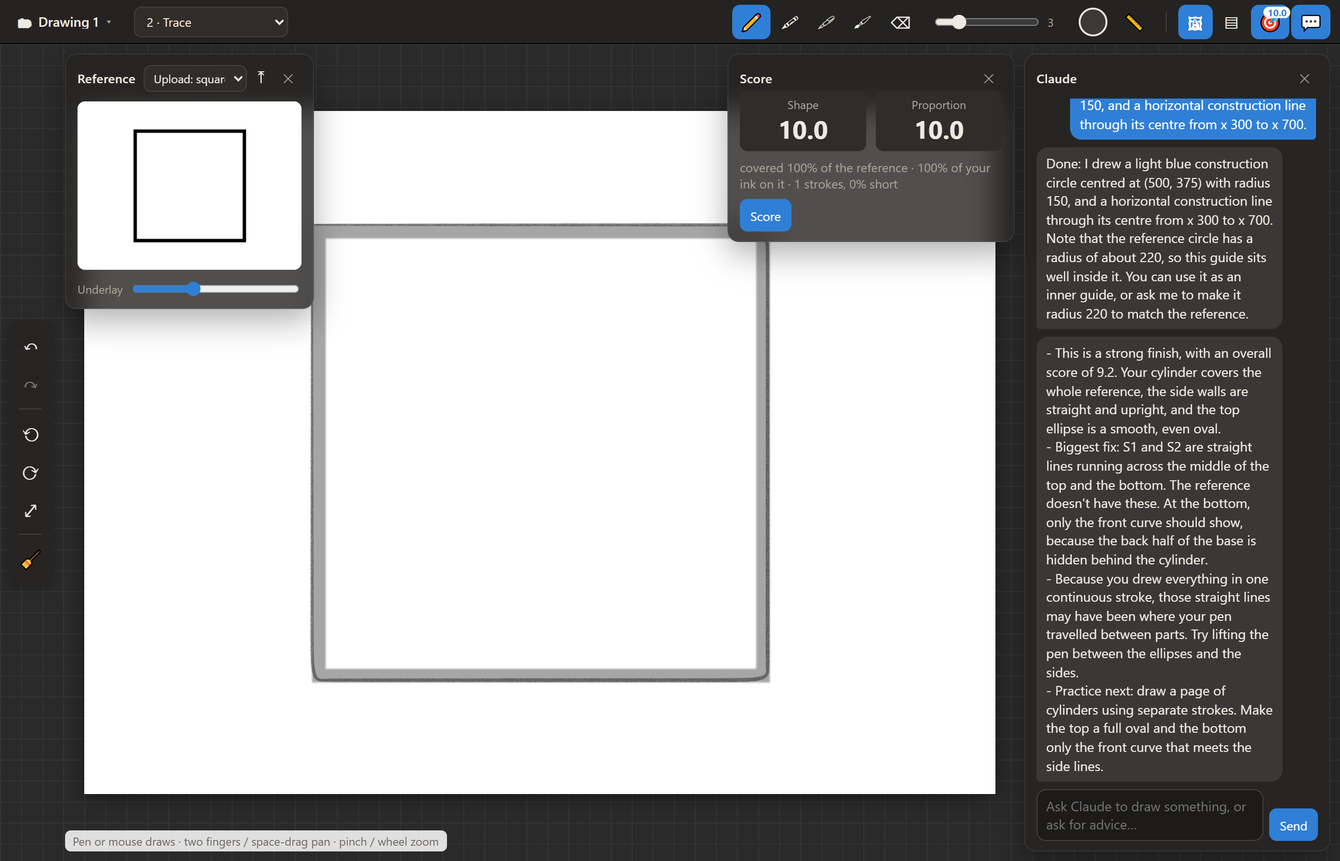
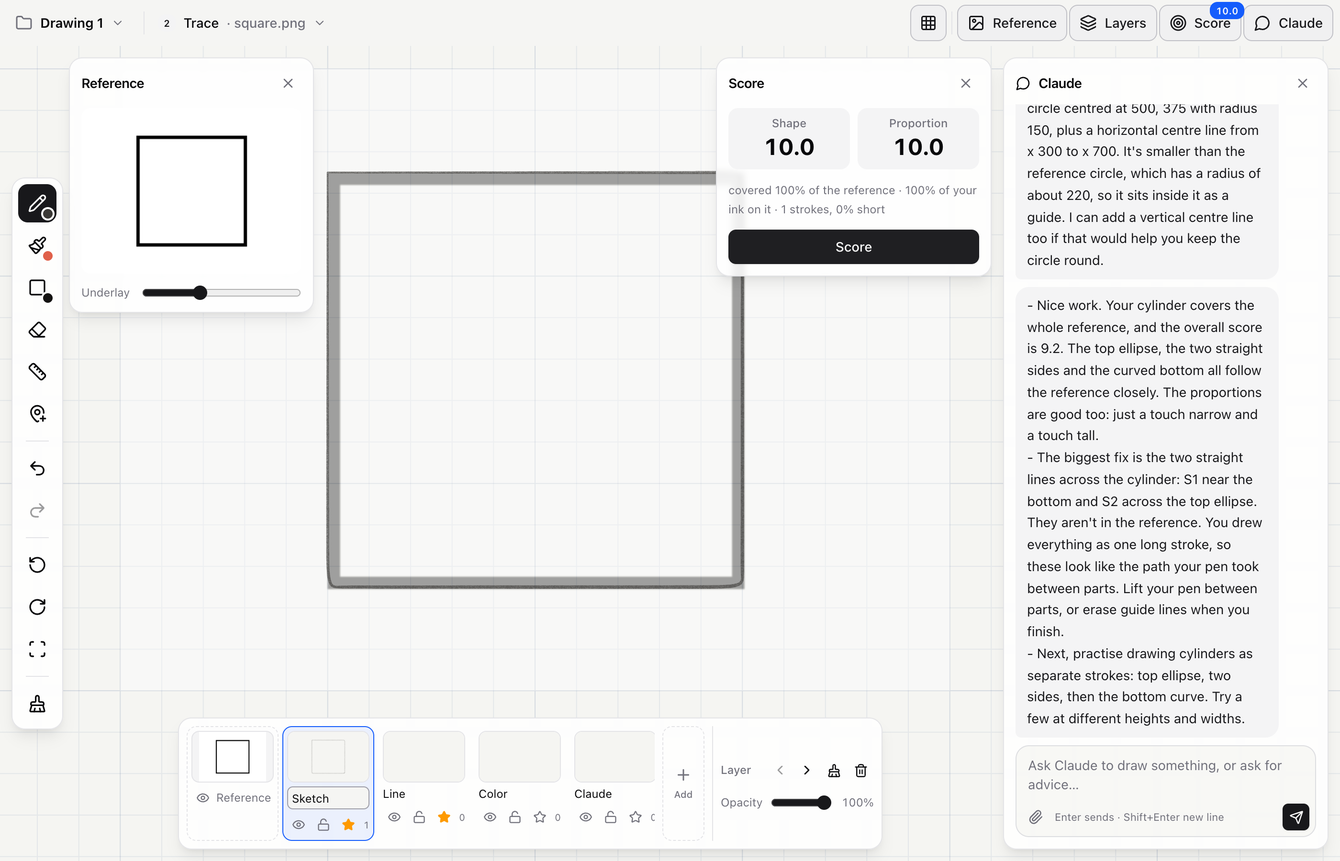
Rewrite the README with new screenshots
- New light-UI screenshots for every picture in the README, plus new ones:
  Claude's labelled perspective box, the clean box with Sketch hidden,
  notes and pictures in the chat, and the Shapes flyout.
- The README now starts with what the app is and a quick start, then has a
  screenshot tour and a "Claude, your drawing teacher" table (drawing,
  explanations on the drawing, perspective layers, notes, pictures).
- Tables for the tools and the keyboard. Sections for practice mode and
  scoring, how it works (routes), security, and development with the
  throwaway-server e2e commands.

diff --git a/README.md b/README.md
@@ -1,204 +1,222 @@
 # ✏ drawing-room
 
-**A local practice room for learning to draw by hand.** Draw with real pen pressure and tilt (Apple Pencil on an iPad,
-or a Wacom / XP-Pen / Huion tablet on a computer) next to a reference. A deterministic scorer compares your lines to it,
-and Claude coaches you, or draws construction lines for you like a CAD helper.
+**A local sketchbook with a drawing teacher in it.** Draw by hand with real pen pressure and tilt (Apple Pencil on an
+iPad, or a Wacom / XP-Pen / Huion tablet), and ask Claude to explain, correct or construct things for you, right on
+the paper: a two-point perspective box built step by step, with every step numbered and labelled where it happens.
 
-![Claude draws construction lines from the chat while you draw by hand](docs/screenshots/15-claude-draws.png)
+![Claude draws a two-point perspective box on its own layers and labels each step on the drawing](docs/screenshots/20-claude-perspective.png)
 
-<table>
-  <tr>
-    <td width="50%"><img src="docs/screenshots/02-level1-cube-next-step.png" alt="Guided tracing of a cube"><br><sub><b>Trace, guided</b>: a step list for each reference, and the next step is named after every stroke.</sub></td>
-    <td width="50%"><img src="docs/screenshots/05-level3-squashed.png" alt="Missed and stray regions boxed after scoring"><br><sub><b>Scored, not guessed</b>: shape and proportion out of 10, with missed (M) and stray (S) regions boxed.</sub></td>
-  </tr>
-  <tr>
-    <td><img src="docs/screenshots/07-level4-submit-review.png" alt="Claude reviews a submitted cylinder"><br><sub><b>Review on submit</b>: Claude reads the numbers and the overlay, then tells you what to practise next.</sub></td>
-    <td><img src="docs/screenshots/11-pencil.png" alt="Pencil pressure, tilted shading and colour"><br><sub><b>A real pencil</b>: pressure for line weight, tilt the pen for grainy shading, any colour.</sub></td>
-  </tr>
-  <tr>
-    <td><img src="docs/screenshots/09-layers.png" alt="Layers panel"><br><sub><b>Layers</b>: hide, lock, opacity, reorder, and ★ the ones that count towards the score.</sub></td>
-    <td><img src="docs/screenshots/10-ruler.png" alt="Ruler on the paper"><br><sub><b>Ruler</b>: strokes snap to its edge; turn it in 15° steps or type an angle.</sub></td>
-  </tr>
-  <tr>
-    <td><img src="docs/screenshots/06-zoom-rotate.png" alt="Zoomed and rotated paper"><br><sub><b>Turn the paper</b>: pan, pinch-zoom and twist like a real sheet.</sub></td>
-    <td><img src="docs/screenshots/13-projects.png" alt="Projects menu"><br><sub><b>Projects</b>: every drawing saves itself on the computer and opens on the iPad too.</sub></td>
-  </tr>
-</table>
+- 🖊 **A real pen**: pressure and tilt straight from the browser, so the iPad only needs Safari. A pencil with grain, ink, marker, brush,
+  shading, highlighter and dragged-out shapes.
+- 🧑🏫 **A teacher, not a filter**: Claude draws on its own layers, writes its explanation onto the drawing, answers
+  notes you pin on a spot, and looks at pictures you drop in the chat.
+- 🗂 **Your work stays on your machine**: projects save themselves on the computer, and the iPad opens the same ones over
+  Wi-Fi.
+- 🎯 **Practice mode with a deterministic score** (`?practice`): trace or draw from a reference, scored on shape and
+  proportion, with a review at the end.
 
-## Highlights
+---
 
-- 🖊 **Pressure and tilt** from the browser's Pointer Events: no app to install on the iPad, just Safari.
-- 📐 **Five levels**, from warm-up drills to drawing from a reference with a review at the end.
-- 🎯 **A deterministic score**: distance transforms on the lines themselves, so the same drawing always gets the same number.
-- 🤖 **Claude as a coach and a CAD helper**: ask "draw a box in two-point perspective" and it draws guides on its own layer.
-- 🔒 **Local first**: the server runs on your own machine and binds to 127.0.0.1 unless you ask for the LAN.
+## Quick start
 
-## Run it
-
-Needs Python 3.11/3.12 and [uv](https://docs.astral.sh/uv/). The coach uses the local
-[Claude Code](https://claude.com/claude-code) command line (`claude`, signed in), or the Messages API if
-`ANTHROPIC_API_KEY` is set and you install the extra (`uv sync --extra api`).
+You need Python 3.11 or 3.12 and [uv](https://docs.astral.sh/uv/). For Claude you need either the
+[Claude Code](https://claude.com/claude-code) command line (`claude`, signed in), or `ANTHROPIC_API_KEY` with
+`uv sync --extra api`.
 
 ```bash
 uv sync
-uv run drawing-room serve            # http://127.0.0.1:8430 on this Mac only
-uv run drawing-room serve --lan      # also on your Wi-Fi, for the iPad; prints the address
-uv run drawing-room serve --lan --pin   # on a shared network: also asks for a 6-digit PIN printed at start-up
+uv run drawing-room serve                 # http://127.0.0.1:8430, this computer only
+uv run drawing-room serve --lan           # also on your Wi-Fi for the iPad; prints the address to open
+uv run drawing-room serve --lan --pin     # on a shared network: also asks for a 6-digit PIN
 uv run drawing-room serve --port 9000 --data ~/drawings   # projects live in ~/.drawing-room/projects by default
 ```
 
-On the iPad, open the printed `http://<mac-ip>:8430` address in Safari.
-All JavaScript is served by the Mac, so the iPad needs no internet; the coach needs the Mac to reach Claude.
+On the iPad, open the printed `http://<computer-ip>:8430` in Safari. Everything is served by the computer, so the iPad
+needs no internet. Claude needs the computer to reach it.
+
+---
+
+## A tour
+
+<table>
+  <tr>
+    <td width="50%"><img src="docs/screenshots/21-clean-box.png" alt="The same box with Claude's Sketch layer hidden"><br><sub><b>Construction you can switch off.</b> Claude draws in four line weights on separate layers. Hide its Sketch layer and a clean box is left.</sub></td>
+    <td width="50%"><img src="docs/screenshots/22-notes-and-pictures.png" alt="Numbered notes pinned on the drawing and a picture attached in the chat"><br><sub><b>Ask about a spot.</b> Pin numbered notes on the paper (N) and attach pictures. They go with your next message, and Claude answers each note by number.</sub></td>
+  </tr>
+  <tr>
+    <td><img src="docs/screenshots/23-toolbox-shapes.png" alt="The Shapes flyout with dashed lines"><br><sub><b>Toolbox.</b> Write, Paint and Shapes each open a flyout with their tools, colours and size. Shapes come solid or dashed.</sub></td>
+    <td><img src="docs/screenshots/11-pencil.png" alt="Pencil pressure, tilted shading and colour"><br><sub><b>A pencil that behaves like one.</b> Press harder for a darker line, and tilt the pen for grainy shading.</sub></td>
+  </tr>
+  <tr>
+    <td><img src="docs/screenshots/09-layers.png" alt="The layers strip"><br><sub><b>Layers.</b> A strip of cards that show what is on each layer. Hide, lock, set opacity, reorder, and ★ the ones that count in practice.</sub></td>
+    <td><img src="docs/screenshots/10-ruler.png" alt="The ruler on the paper"><br><sub><b>Ruler.</b> Run a stroke along it to draw straight. Turn it in 15° steps or type an exact angle.</sub></td>
+  </tr>
+  <tr>
+    <td><img src="docs/screenshots/02-level1-cube-next-step.png" alt="Guided tracing of a cube"><br><sub><b>Practice: trace, guided.</b> A step list for each reference, with the next step named after every stroke.</sub></td>
+    <td><img src="docs/screenshots/05-level3-squashed.png" alt="Missed and stray regions boxed after scoring"><br><sub><b>Scored, not guessed.</b> Shape and proportion out of 10, with missed (M) and stray (S) regions boxed.</sub></td>
+  </tr>
+  <tr>
+    <td><img src="docs/screenshots/07-level4-submit-review.png" alt="Claude reviews a submitted drawing"><br><sub><b>Review on submit.</b> Claude reads the numbers and the overlay, then says what to practise next.</sub></td>
+    <td><img src="docs/screenshots/13-projects.png" alt="The projects menu"><br><sub><b>Projects.</b> Every drawing saves itself on the computer and opens on the iPad too.</sub></td>
+  </tr>
+</table>
+
+---
+
+## Claude, your drawing teacher 🧑🏫
+
+Open the chat with the **Claude** button (top right). Write in any language; Claude answers in yours.
+
+| Ask for… | What happens |
+| --- | --- |
+| **Something drawn**: "draw a box in two-point perspective", "add a centre line", "sketch the cap" | Claude draws it as lines, circles, ellipses, arcs, curves, filled faces and text, on layers of its own that are never scored. One undo takes back everything it drew for that message, and "redo it" replaces it. |
+| **An explanation** | Claude writes it **on the drawing**. Short labels sit beside the points that matter, and numbered steps follow the drawing order ("1 Draw the horizon"), on its **Notes** layer. The chat reply then refers to the step numbers. |
+| **A perspective illustration** | One box per picture, in four line weights. **Sketch**: the faint dashed construction (orange to the side vanishing points, blue to the third) and the green lines that find the hidden corner. **Color**: the faces at 60% (left purple, right coral, top or bottom green). **Line**: the bold visible edges, nearer ones thicker. A layer is called "Claude Sketch" when you already have a "Sketch". |
+| **About one spot** | Press **N** (or the pin in the toolbox), tap the spot and write the question. A numbered orange pin marks it, and the note waits above the message box (× removes it). Claude gets each note with its position, sees the pins, and answers by number. |
+| **About a picture** | Attach up to 4 pictures a message: use the paperclip, paste a screenshot, or drop a file anywhere on the page. They are scaled to 1600 px and sent with that message only, and a thumbnail stays in the chat. |
+
+The chat is saved with the project. Claude sees the sheet (plus anything drawn past it) with a coordinate grid. Your
+strokes appear in black and its own in blue, so it never mistakes its work for yours.
+
+---
+
+## Drawing
+
+**Paper.** Soft off-white paper fills the screen with no border, so you can draw anywhere. A squared grid moves, zooms and turns with
+the drawing: a line every 50 units, a darker one every 250. Turn it off with the grid button or **G**. The sheet
+shape in the project menu (4:3, A4 landscape or portrait, square, 16:9, 9:16) sets what the view fits to.
+
+**Tools** (left edge). Tap a group to pick its tool, and tap it again for its flyout: the group's tools, six colours
+plus any colour, and the size. Each tool keeps its own size. A colour is shared within its group, so the pencil and
+the ink match while the highlighter stays yellow.
+
+| Group | Tools |
+| --- | --- |
+| ✏ **Write** | **Pencil**: graphite with grain. Light pressure gives a thin, pale line and firm pressure a dark one; lay the pen on its side to shade. **Ink**: crisp. **Marker**: an even felt-tip. |
+| 🖌 **Paint** | **Colour brush**. **Shade**: the tilted-pencil band, for a mouse or trackpad. **Highlighter**: wide and multiplied onto the paper, so lines under it stay dark. |
+| ⬜ **Shapes** | Line, rectangle, ellipse, triangle, diamond and arrow, solid or dashed. Hold Shift for a square, a circle, or a line in 15° steps. |
+| 🧽 **Eraser** | Removes whole strokes on the active layer, including Claude's filled faces and labels. |
+| 📏 **Ruler** | Start a stroke against it and run along it, and the stroke lands on its edge; heading off across it stays freehand. Drag the ends to turn it, the middle to move it, or type an angle. |
+| 📍 **Note** | Pins a question on a spot for Claude (see above). |
+
+**Layers** (the strip at the bottom). Each card shows what is on that layer, zoomed onto its own strokes. A new drawing
+starts with Sketch, Line and Color, and you can have up to 24. Tap a card to draw on that layer, and tap the active
+layer's name to rename it. Each layer can be hidden, locked, given its own opacity, moved, cleared or deleted, and all
+of that is undoable. Scroll the strip sideways with a horizontal wheel, a normal wheel or a swipe.
+
+**View.**
+- On the iPad: two fingers pan, pinch-zoom and twist.
+- On a computer: space-drag to pan, the wheel or a trackpad pinch to zoom, and Alt+wheel or R to rotate.
+- Palm rejection: once a pen has touched the paper, fingers only move the paper.
+
+Strokes are stored as vectors (x, y, pressure, time, tilt), drawn with vendored
+[perfect-freehand](https://github.com/steveruizok/perfect-freehand) (MIT).
+
+### Keyboard
+
+| Key | | Key | |
+| --- | --- | --- | --- |
+| `P` `I` `M` | pencil, ink, marker | `B` `S` `H` | brush, shade, highlighter |
+| `U` | shapes | `E` | eraser |
+| `L` | ruler | `N` | note for Claude |
+| `G` | grid on / off | `[` `]` | smaller / bigger |
+| `⌘Z` / `⇧⌘Z` | undo / redo | `⇧N` | new layer |
+| `R` / `⇧R` | rotate the paper | `0` | fit the paper |
+| `Space`+drag | pan | `Esc` | close menus, leave Note |
 
 ### Pen tablets (Wacom, XP-Pen, Huion)
 
-A screenless tablet such as the XP-Pen Deco Fun works in Chrome or Edge. Install the maker's driver, and on Windows
-turn on **Windows Ink** in it (XP-Pen: PenTablet → Pen → Windows Ink). Without it the browser sees a mouse, so there is
-no pressure or tilt. If a long press then shows a circle or the first stroke lags, turn off the press-and-hold effects
-in Settings → Bluetooth & devices → Pen & Windows Ink, but leave Windows Ink on in the driver. On Android, plug the
-tablet in over USB OTG and open the `--lan` address in Chrome.
+**Windows.** A screenless tablet such as the XP-Pen Deco Fun works in Chrome or Edge.
+- Install the maker's driver and turn on **Windows Ink** in it (XP-Pen: PenTablet → Pen → Windows Ink). Without it the browser sees a mouse, with no pressure or tilt.
+- If a long press shows a circle or the first stroke lags, turn off the press-and-hold effects in Settings → Bluetooth & devices → Pen & Windows Ink. Keep Windows Ink on in the driver.
 
-## What you can do
+**Android.** Plug the tablet in over USB OTG and open the `--lan` address in Chrome.
 
-- **Projects** (🗂 at the top left): every drawing is a project kept on the Mac, so the iPad and the Mac open the same
-  work. New (named straight away), open any project from the list, rename it, or delete it. Changes save themselves
-  about a second after you stop, and a copy kept in the browser covers a reload or a closed tab before that. A drawing
-  from before projects becomes "My first drawing".
-- **Paper**: soft off-white paper edge to edge, with no border: draw anywhere. A squared grid (a line every 50 units, darker
-  every 250) moves, zooms and turns with the drawing; turn it on or off with the grid button in the top bar or **G**.
-  The sheet shape in the project menu (🗂 → Paper: 4:3, which is the reference frame, A4 landscape or portrait, square,
-  16:9 or 9:16) sets what the view fits to. Claude sees that sheet plus anything you drew past it. The reference and
-  scoring frame always sits in the middle of the sheet (a faint outline on the bigger sheets, while practising). At levels
-  3–4 size and position are ignored, so you can draw anywhere on it.
-- **Toolbox** (left edge): **Write** holds the pencil (P), ink (I) and marker (M); **Paint** holds the colour brush (B),
-  Shade (S) and the highlighter (H); **Shapes** (U) drags out a line, rectangle, ellipse, triangle, diamond or arrow
-  (hold Shift for a square, a circle, or a line at 15° steps), solid or dashed; then the eraser (E, removes whole strokes), the ruler (L), undo/redo, rotate, fit
-  and clear. Tap a group to pick its tool; tap it again for its flyout: the group's tools, six colours plus any colour,
-  and the size (`[` / `]` change it too). Each tool keeps its own size, and a colour is shared within its group, so the
-  pencil and the ink match while the highlighter stays yellow. The marker is an even, opaque felt-tip; the highlighter
-  is wide and see-through, multiplied onto the paper so the lines under it stay dark, and never scored. Strokes follow pen pressure (via vendored
-  [perfect-freehand](https://github.com/steveruizok/perfect-freehand), MIT) and are stored as vectors: every point keeps
-  x, y, pressure, time and tilt, so drawings can be replayed and analysed. Undo/redo (⌘Z / ⇧⌘Z).
-- **Pencil** (P): graphite with paper grain. Press lightly for a thin, pale line and harder for a thick, dark one.
-  Lay an Apple Pencil or Wacom pen low on its side and the stroke turns into shading: a broad, light, grainy band
-  that darkens as you go over it again. With a mouse or trackpad (no tilt), use **Shade** (S) for the same band.
-  The swatch makes it a coloured pencil. Shading is tone, not line, so it never counts towards the score.
+---
 
-  ![Pencil: light and firm lines, tilted shading, the Shade tool and a coloured pencil](docs/screenshots/11-pencil.png)
-- **Free drawing for now**: the practice side (levels, references, scoring and the review) is put away while it is
-  being rethought. The app opens on blank paper with the tools, layers and Claude. Open it with `?practice`
-  (`http://127.0.0.1:8430/?practice`) to bring the practice menu, Reference and Score back, along with the faint
-  outline of the scoring frame on larger paper sizes; a reference saved with a project stays in its file either way.
-- **Screen**: the paper fills everything under one slim bar: the project, the practice menu (level and what you
-  draw from, with `?practice`), and the Reference, Layers, Score and Claude buttons. The UI uses Tailwind with shadcn/ui's design tokens
-  and Lucide icons. Reference, Score, Claude and the Layers strip are see-through panels over the paper; tap their
-  button to show or hide them. The Score button shows the last score.
-- **Claude, like a CAD helper** (💬, docked on the right): say an idea, such as "draw a box in two-point perspective",
-  "add a centre line" or "sketch the cap", and Claude draws it as lines, circles, ellipses, arcs and curves on its own
-  **Claude** layer: light blue construction lines to draw over, or finished lines. Draw by hand wherever you want and
-  ask Claude for the rest; ask "redo it" to replace what it drew. One undo takes back everything Claude drew for a
-  message. The Claude layer is not scored (★ off). Ask questions in the same chat for advice. Attach pictures for
-  Claude to look at (up to 4 a message): the paperclip, paste one into the message, or drop one anywhere on the page.
-  They are scaled to 1600 px and sent with that message only; a small thumbnail stays in the chat.
-  Claude can draw on several layers of its own and set each line's width, opacity and dash, and fill faces. For a
-  perspective illustration it draws one box: the faint dashed construction and the finding lines on "Sketch", the
-  faces at 60% on "Color", and the bold visible edges on "Line" (prefixed "Claude" when you already have a layer of
-  that name). Hide its Sketch layer to see a clean box.
-  Claude explains on the drawing itself: real text labels beside the points that matter (vanishing points, the corner
-  it constructs) and numbered steps in drawing order, on its own "Notes" layer; the chat reply then refers to the
-  step numbers.
-  **Notes (N)**: with the pin tool in the toolbox, tap a spot and write a question ("is this corner square?"). A numbered
-  orange pin marks it, the note waits above the message box (× removes it), and it goes with your next message: Claude
-  gets each note with its place and sees the numbered pins on the drawing, and answers them by number. The chat is kept with the
-  project. It is off in the warm-up drills, and at level 4 until you submit; the review then appears in the chat.
-- **Layers**: a strip along the bottom, one card with a thumbnail per layer, the bottom of the stack on the left (‹ ›
-  move the active layer down or up). The strip keeps one width; more layers scroll sideways (a sideways wheel, a
-  normal wheel over the strip, or a swipe). A new drawing starts with Sketch, Line and Color; add up to 24 (＋ or ⇧N), and a
-  new layer opens with its name field ready to type. Tap a layer to draw on it, tap the active layer's name to rename it.
-  Each layer can be hidden (eye), locked (lock, takes no strokes and no erasing), set to its own opacity, moved up or down,
-  cleared on its own, or deleted. Adding, deleting, moving and renaming are undoable like strokes. ★ marks the layers
-  that count towards the score (Color is off by default). The reference image sits under the stack with its own
-  opacity slider. Old v0 drawings are upgraded on load.
-- **Ruler** (L): a straightedge on the paper. Start a stroke against it and run along it, and the whole stroke lands on
-  its edge; a stroke that starts by it but heads off across it (more than 25°) stays freehand. Drag an end to turn it (snaps to 15° steps; hold ⌥ for any angle), drag the ⊕ in the middle to move it, or
-  type an exact angle next to the button. The angle is shown on the ruler. It is not offered in the warm-up drills.
-- **View**: two fingers pan, pinch-zoom and twist-rotate on the iPad; space-drag to pan, wheel or trackpad pinch to zoom,
-  Alt+wheel or R / ⇧R to rotate, 0 to fit on the Mac.
-- **Palm rejection**: once a pen has touched the paper, fingers never draw; they only move the paper.
-- **References**: none by default: a new drawing is blank paper. Pick one in the practice menu (built-in line, circle,
-  ellipse, cube, cylinder and apple, drawn in code) or upload your own image. Warm-up drills always use a drill. The
-  reference card floats over the top left of the paper. Scoring needs a reference; on blank paper it says so.
-- **Levels**:
-  - 0 Warm-up — drills (line between two dots, circle, ellipse), only the guide dots on the paper, auto-scored.
-  - 1 Trace, guided — underlay plus a step list; after each stroke the next step is named (for uploads: where the
-    biggest area you have not drawn yet is, such as "in the bottom middle").
-  - 2 Trace — coach only when you press *Ask coach*.
-  - 3 From reference — no underlay, coach when asked. Size and position do not matter, proportions do.
-  - 4 From reference, review at the end — the coach stays silent until *Submit*.
+## Practice mode (`?practice`)
 
-## Scoring
+Open `http://127.0.0.1:8430/?practice` to bring back the practice menu, references and the score. Free drawing hides
+them. A reference saved with a project stays in its file either way.
 
-`POST /api/score`, all in [`scoring.py`](src/drawing_room/scoring.py), deterministic:
+| Level | What it is |
+| --- | --- |
+| 0 · Warm-up | Drills: a line between two dots, a circle, an ellipse. Scored after every stroke. |
+| 1 · Trace, guided | The reference under your paper plus a step list. The next step is named after each stroke. |
+| 2 · Trace | The reference underneath, no steps; Claude when you ask. |
+| 3 · From reference | Nothing underneath. Size and position don't count, proportions do. |
+| 4 · Test | No help at all. Press Submit and Claude reviews the drawing. |
 
-1. Reference lines: built-ins are rendered from their vectors; uploaded line art is thresholded; photos go through
-   edge detection (best effort). Thick lines are thinned to a centre line.
-2. Your strokes on visible ★ layers are rasterised at a constant thin width (pressure does not change the score).
-   Shading strokes (the Shade tool, or a tilted pencil) are left out.
-3. Levels 3–4 first move and uniformly scale your ink onto the reference (centroid and spread; never rotation).
-4. A distance transform gives *recall* (share of the reference with your ink nearby) and *precision* (share of your ink
-   near the reference), with a few pixels of full credit fading to zero a little further out.
-   **Shape** = F-score on 0–10. **Proportion** compares width and height spread separately, so a squashed circle loses it.
-5. Missed reference lines (M1, M2…) and stray lines (S1, S2…) come back as boxes in your drawing's coordinates, and
-   stroke stats (count, mean length, share of short scratchy strokes) feed the coach.
+References are built in (line, circle, ellipse, cube, cylinder, apple, all drawn in code), or you can upload your own
+image.
 
-## Coach
+**Scoring** (`POST /api/score`, [`scoring.py`](src/drawing_room/scoring.py)) is deterministic:
+1. The reference becomes thin centre lines. Built-ins are rendered from vectors, line art is thresholded, and photos get edge detection.
+2. Your strokes on visible ★ layers are rasterised at a constant width. Shading is left out.
+3. At levels 3–4, your ink is moved and scaled onto the reference first. It is never rotated.
+4. Distance transforms give recall and precision. **Shape** is their F-score out of 10. **Proportion** compares width and height spread separately, so a squashed circle loses points.
+5. Missed (M1…) and stray (S1…) regions come back as boxes, along with stroke stats for the coach.
 
-`POST /api/coach` scores the drawing, composites an overlay (reference faint red, your ink black, regions boxed yellow)
-into a temp folder and runs `claude -p` with only the Read tool allowed and without your user settings or MCP servers.
-Claude gets the machine numbers, region ids, stroke stats, level and your question, and is told never to invent scores or
-coordinates. With `ANTHROPIC_API_KEY` set (and `anthropic` installed) it calls the Messages API with the images inline.
-Questions can be in any language: the command line is spoken to in UTF-8.
+---
 
-`POST /api/assist` is the chat ([`assist.py`](src/drawing_room/assist.py)). It renders the sheet with a labelled
-coordinate grid, the reference and every stroke so far, and asks Claude (the same two routes, same Read-only command
-line) for a short reply plus shapes as JSON: `line`, `polyline`, `rect`, `circle`, `ellipse`, `arc` and cubic
-`bezier`, each a finished `line` or a `construction` guide. The server checks every shape (numbers, ranges, at most
-200 shapes) and samples it into points; a bad shape is skipped, not fatal. The browser adds them as ink strokes on the
-Claude layer.
+## How it works
 
-## Security
+- **Server**: Python stdlib HTTP ([`server.py`](src/drawing_room/server.py)).
+- **App**: vanilla ES modules with no bundler ([`static/js/`](src/drawing_room/static/js)).
+- **UI**: Tailwind v4 with shadcn/ui tokens and vendored Lucide icons.
 
-- Binds to 127.0.0.1 by default and rejects foreign Host and Origin headers.
-- `--lan` binds 0.0.0.0 and answers only devices on the local network: loopback, private and link-local addresses, or
-  the same /16 as one of the Mac's own addresses (for home networks on public-looking ranges). Origin must still match
-  Host. `--pin` adds a PIN for every `/api` route (HttpOnly, SameSite=Strict cookie; wrong PINs are rate limited).
-- Project ids are made by the server and checked against a strict pattern before they are used in a file name.
-- Request bodies are capped (16 MB, 3000 strokes, 300k points).
-- Every POST logs request, response and error in a `finally` block; set `DRAWING_ROOM_GRAYLOG=host:port` to send them
-  to Graylog as GELF over UDP. PINs and image data are redacted, and strokes (also inside project saves) are summarised.
+| Route | Does |
+| --- | --- |
+| `POST /api/assist` | The chat ([`assist.py`](src/drawing_room/assist.py)). It renders the sheet with a labelled grid, your strokes, Claude's earlier strokes, the note pins, and any attached pictures, then asks Claude for a reply plus shapes as JSON: `line`, `polyline`, `rect`, `circle`, `ellipse`, `arc`, `bezier` and `label`. Each shape can have a layer, colour, width, opacity, dash or fill. The server checks every shape and samples it into points; a bad shape is skipped, not fatal. |
+| `POST /api/coach` | Scores the drawing, composites an overlay and asks Claude for advice. Claude gets the machine numbers and is told never to invent scores or coordinates. |
+| `POST /api/score` | The deterministic score above. |
+| `/api/projects…` | List, create, save, rename and delete projects. |
+
+Claude runs through `claude -p` with only the Read tool allowed and without your user settings or MCP servers. If
+`ANTHROPIC_API_KEY` is set and `anthropic` is installed, it uses the Messages API with the images inline instead.
+
+### Security
+
+- **Binding.** By default the server binds to 127.0.0.1 and rejects foreign Host and Origin headers.
+- **LAN mode.** `--lan` answers only devices on the local network, and Origin must still match Host. `--pin` puts a PIN on every `/api` route (HttpOnly, SameSite=Strict cookie, rate limited).
+- **Input limits.** Project ids are made by the server and checked before they touch a file name. Bodies are capped at 16 MB, 3000 strokes and 300k points. Each message takes at most 4 pictures and 12 notes.
+- **Logging.** Every POST logs its request, response and error. Set `DRAWING_ROOM_GRAYLOG=host:port` to send them as GELF over UDP. PINs and image data are redacted, and strokes are summarised.
+
+---
 
 ## Development
 
 ```bash
-uv run pytest            # scoring, server, PIN/Origin, logging, coach prompt (claude mocked)
-npm test                 # node --test: stroke model, pencil, tools, undo/redo, layers, ruler, view math, palm rejection
-npm run build           # after changing the UI: Lucide icons -> static/js/icons.js, Tailwind -> static/styles.css
-uv run --with playwright --with pillow python scripts/e2e_browser.py docs/screenshots http://127.0.0.1:8430/   # with the server running; uses Google Chrome
-uv run --with playwright python scripts/e2e_layers_ruler.py http://127.0.0.1:8430/ docs/screenshots
-uv run --with playwright python scripts/e2e_pencil.py http://127.0.0.1:8430/ docs/screenshots
-# The browser checks write projects: run each against a server with an empty data dir, never your real one:
-#   uv run drawing-room serve --port 8431 --data "$(mktemp -d)" &
+uv run pytest      # server, scoring, assist (shapes, labels, notes, pictures), PIN/Origin, logging; claude mocked
+npm test           # node --test: strokes, pencil, tools, shapes, undo/redo, layers, ruler, paper, notes, view math
+npm run build      # after changing the UI: Lucide icons -> static/js/icons.js, Tailwind -> static/styles.css
 ```
 
-Layout: `src/drawing_room/` (server, scoring, references, coach), `src/drawing_room/static/` (HTML, ES modules and the
-built CSS, committed so the app runs without Node; `vendor/` holds perfect-freehand, the Lucide license),
-`src/drawing_room/styles/app.css` (the Tailwind source), `tests/`, `js-tests/`.
+The browser checks drive Google Chrome with Playwright, and they create projects. Run each one against a throwaway
+server and data directory, never your real one:
 
-## Roadmap (not in v0)
+```bash
+uv run drawing-room serve --port 8499 --data "$(mktemp -d)" &
+uv run --with playwright python scripts/e2e_projects.py      http://127.0.0.1:8499/ docs/screenshots
+uv run --with playwright python scripts/e2e_pencil.py        http://127.0.0.1:8499/ docs/screenshots
+uv run --with playwright python scripts/e2e_layers_ruler.py  http://127.0.0.1:8499/ docs/screenshots
+uv run --with playwright --with pillow python scripts/e2e_browser.py docs/screenshots http://127.0.0.1:8499/   # calls Claude
+```
+
+Layout:
+
+| Path | Holds |
+| --- | --- |
+| `src/drawing_room/` | Server, scoring, references, coach and assist. |
+| `src/drawing_room/static/` | HTML, ES modules and the built CSS. The CSS is committed so the app runs without Node. |
+| `src/drawing_room/static/vendor/` | perfect-freehand and the Lucide licence. |
+| `src/drawing_room/styles/app.css` | The Tailwind source. |
+| `tests/`, `js-tests/`, `scripts/` | Python tests, JavaScript tests and the browser checks. |
+
+## Roadmap
 
 - 3D-model lessons with step-by-step construction lines (from cadsmith/CadQuery or three.js).
-- Timed gesture drills.
-- Journal and progress history with stroke replay.
-- Auto level-up (three drawings scoring 8 or more → next level).
-- Value (light/dark) and color scoring.
-- Pixel (partial) eraser; the v0 eraser removes whole strokes.
+- Timed gesture drills, and a journal of progress with stroke replay.
+- Auto level-up: three drawings scoring 8 or more move you to the next level.
+- Value (light/dark) and colour scoring.
+- A pixel eraser. Today the eraser removes whole strokes.

diff --git a/.claude/BOARD.md b/.claude/BOARD.md
@@ -1,6 +1,7 @@
 # Tasks Board
 
 ## In Progress
+- **README rewrite** (docs/readme): new light-UI screenshots, a tour, Claude-as-teacher section, tools and keyboard tables.
 - **Claude explains on the drawing + layer thumbnails** (feat/claude-labels): real text labels and numbered steps on a "Notes" layer; layer cards zoom onto their own strokes.
 - **Notes for Claude** (feat/chat-notes): Note tool (N) pins numbered questions on the paper; they go with the next chat message, with their spot, and show as pins in what Claude sees.
 - **Light UI, edgeless paper, grid toggle** (feat/light-ui): shadcn light theme; white paper edge to edge, draw anywhere; squared grid in paper space, toggled with the grid button or G.
